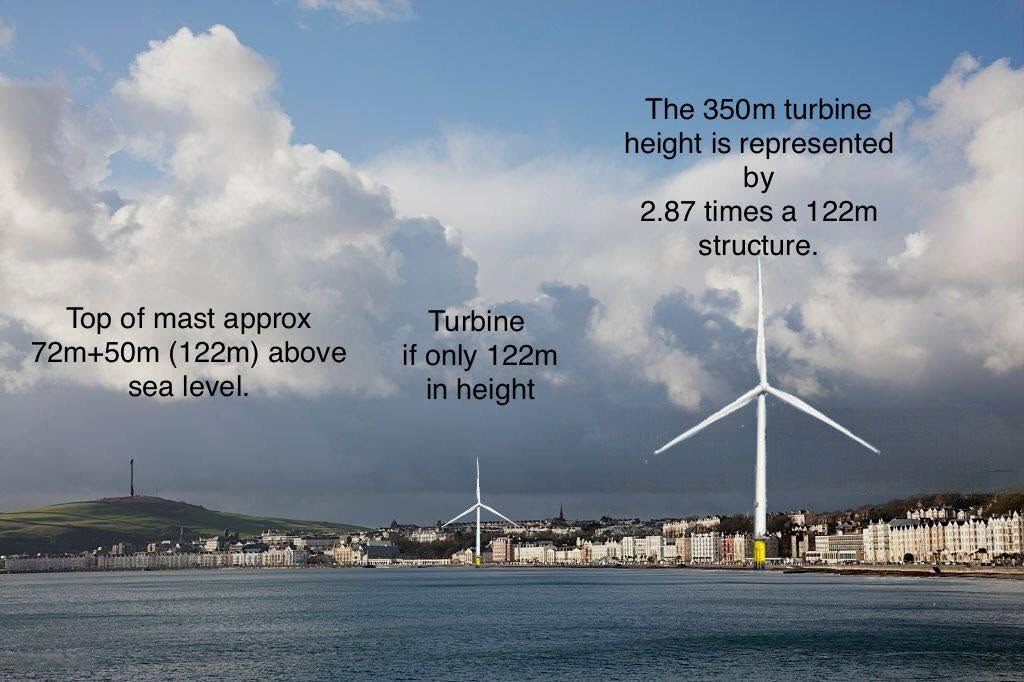
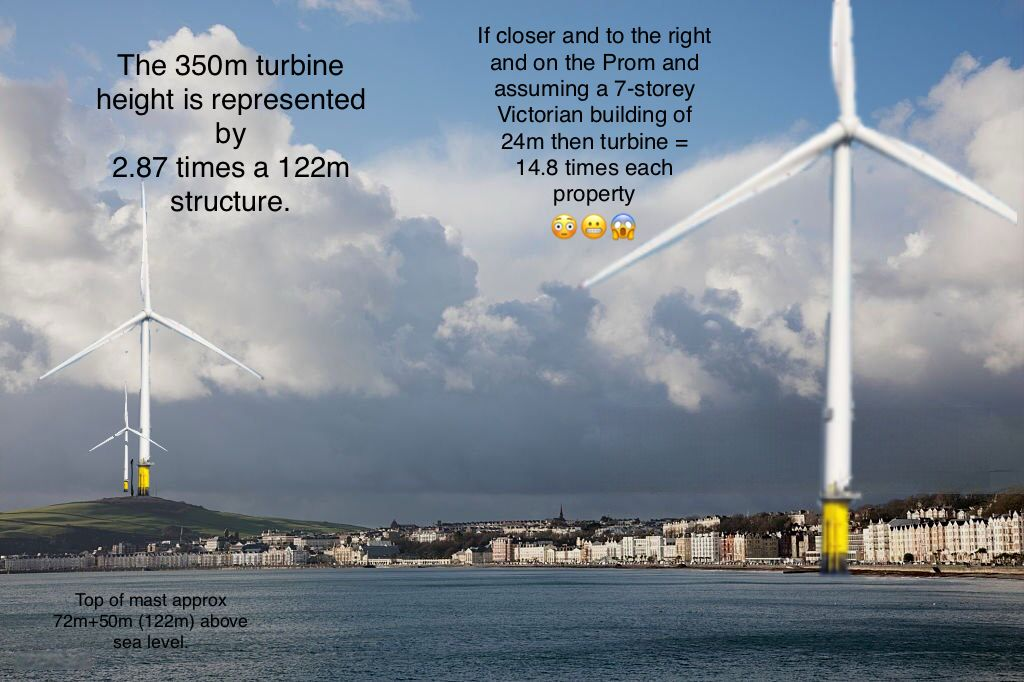
Swap in more accurate 350m-turbine-vs-Douglas-seafront image
Replace the indicative Douglas seafront turbine image with Gina's
updated version (kept the same filename so the URL/src is unchanged).
The new image adds the seafront-scale point, so the caption/alt now note
a turbine on the prom would stand ~14.8x (nearly 15x) the height of a
seven-storey Victorian building.

diff --git a/index.html b/index.html
@@ -264,9 +264,9 @@
         </figure>
         <figure class="fig reveal">
           <img src="images/what%20a%20350%20m%20trubine%20looks%20like%20indicative.jpg"
-               alt="Indicative image of a single 350m turbine towering over the Douglas seafront, beside a much smaller 122m turbine for comparison"
+               alt="Indicative image of 350m turbines against the Douglas seafront, dwarfing the Victorian promenade — a turbine close in would stand around 14.8 times the height of a seven-storey seafront building"
                loading="lazy" width="1024" height="682">
-          <figcaption>A single 350m turbine against the Douglas seafront — nearly three times a &ldquo;normal&rdquo; 122m turbine.</figcaption>
+          <figcaption>350m turbines against the Douglas seafront — close in, one would stand nearly <strong>15× the height</strong> of a Victorian promenade building.</figcaption>
         </figure>
         <figure class="fig reveal">
           <img src="images/Walnet%20v%20Mooir%20Vannin%20indicative.jpg"